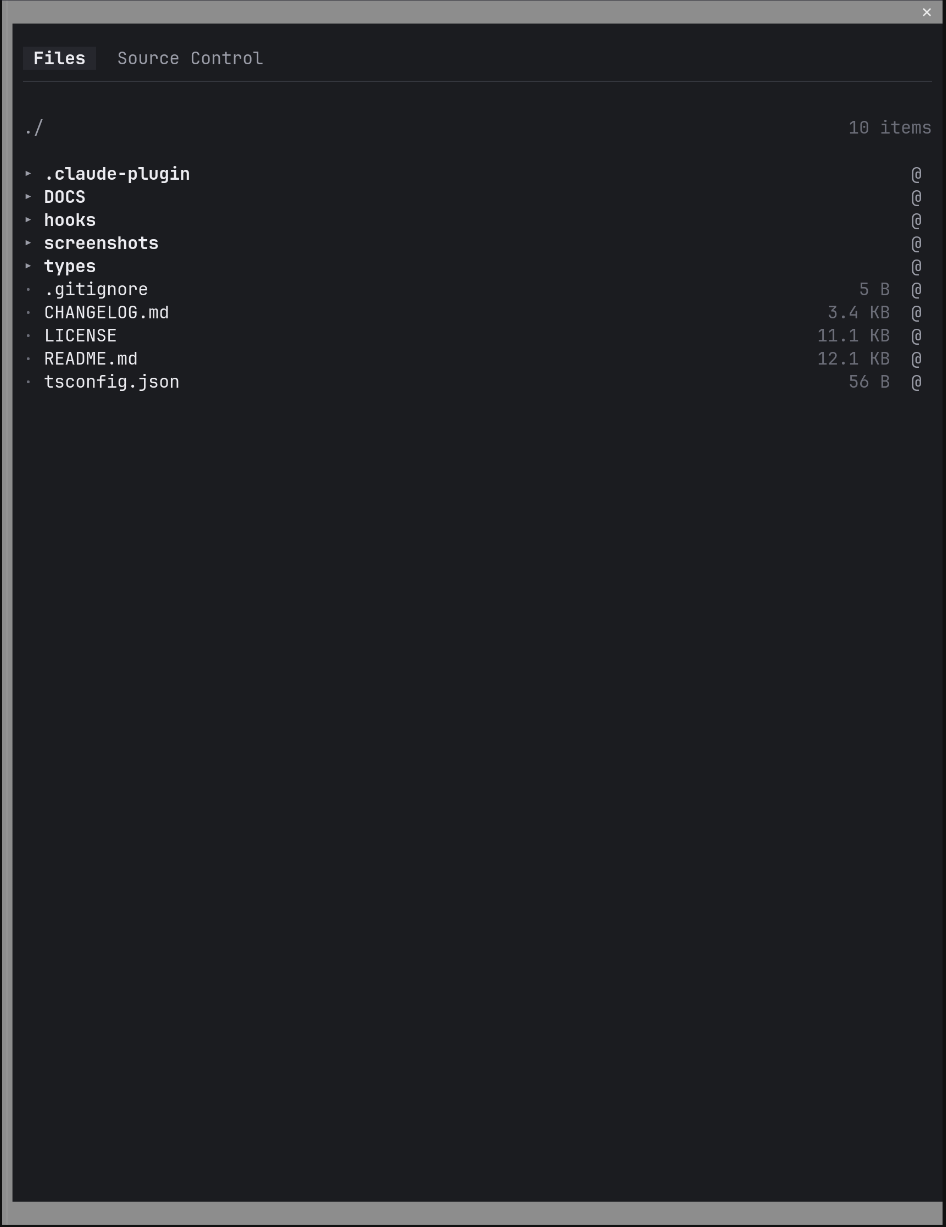
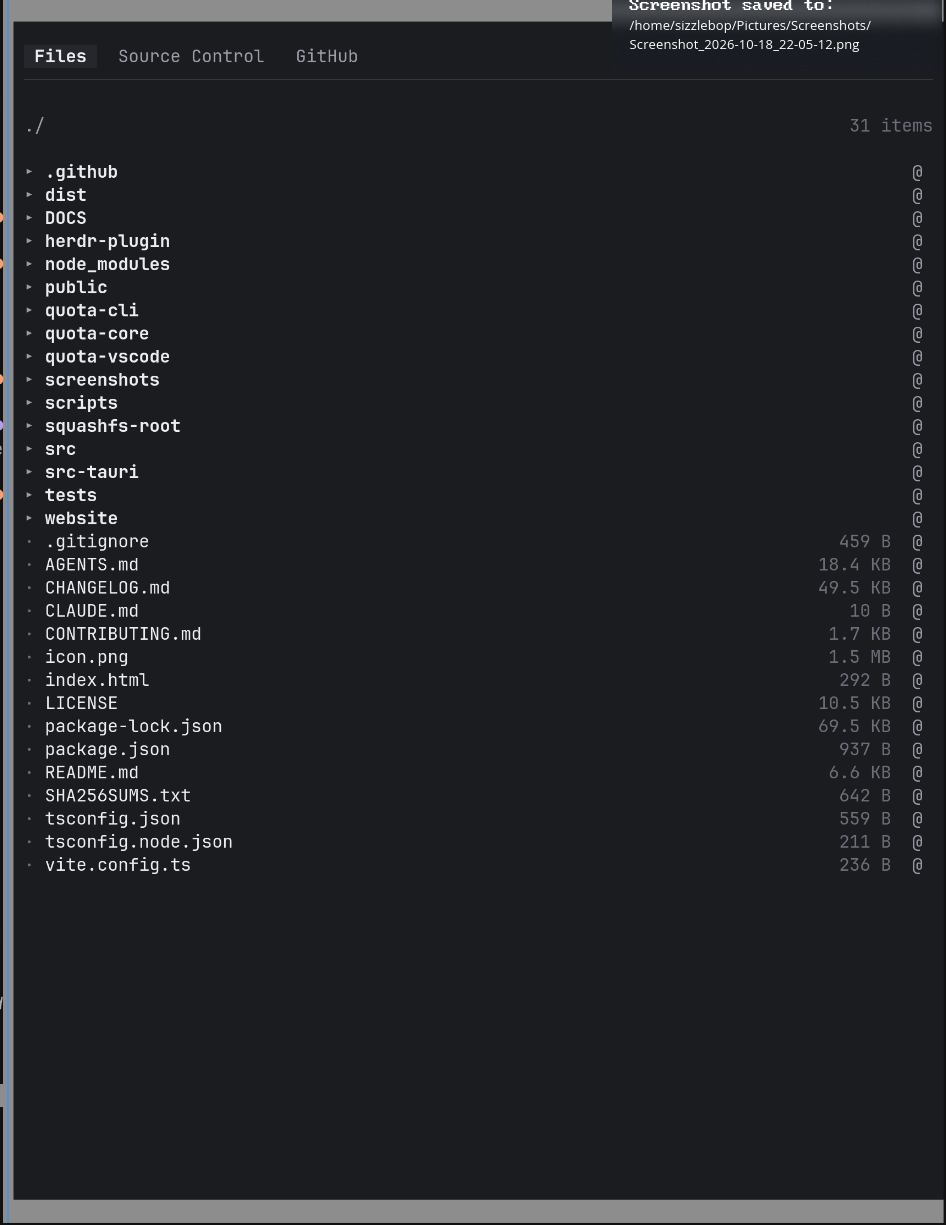
docs: add new screenshots to the README

Changed region(s): [[0.0, 0.0, 1.0, 0.9927], [0.8584, 0.0931, 0.981, 0.7135]]

diff --git a/README.md b/README.md
@@ -2,11 +2,11 @@
 
 Workspace is a Claude Code mod that adds a pane with a file browser, a VS Code style source control panel, and a GitHub tab for pull requests and issues. You can browse your project, read and edit files, and do most of your everyday git right there: stage whole files or single hunks, commit, push and pull, look back through history, manage branches and stashes, and merge or rebase with a real conflict view, all without leaving Claude Code.
 
-I made it because I kept jumping out to my editor just to check what changed or to make a quick commit. Now that stuff lives right next to the conversation.
-
 | Files | Viewing a file | Source Control |
 | :---: | :---: | :---: |
-| <img src="screenshots/file-list.png" width="260" alt="The Files tab listing a project's folders and files with their sizes"> | <img src="screenshots/file-view.png" width="260" alt="A Rust file open in the viewer with syntax highlighting and line numbers"> | <img src="screenshots/git.png" width="260" alt="The Source Control tab with the branch picker, Fetch, Pull and Push, and the Changes, History, Branches and Stash views"> |
+| <img src="screenshots/file-list.png" width="260" alt="The Files tab listing a project's folders and files with their sizes"> | <img src="screenshots/file-view.png" width="260" alt="A Rust file open in the viewer with syntax highlighting and line numbers"> | <img src="screenshots/source-control.png" width="260" alt="The Source Control tab with the branch picker, Fetch, Pull and Push, and the Changes, History, Branches and Stash views"> |
+| **History** | **Branches** | **GitHub** |
+| <img src="screenshots/history.png" width="260" alt="The History view listing recent commits with their age, short hash and a Revert button"> | <img src="screenshots/branches.png" width="260" alt="The Branches view with Merge and Rebase, local branches with Switch, Rename and Delete, and remote branches with Check out"> | <img src="screenshots/github.png" width="260" alt="The GitHub tab listing a repo's open issues with their author, age and @ buttons"> |
 
 ## Features
 
